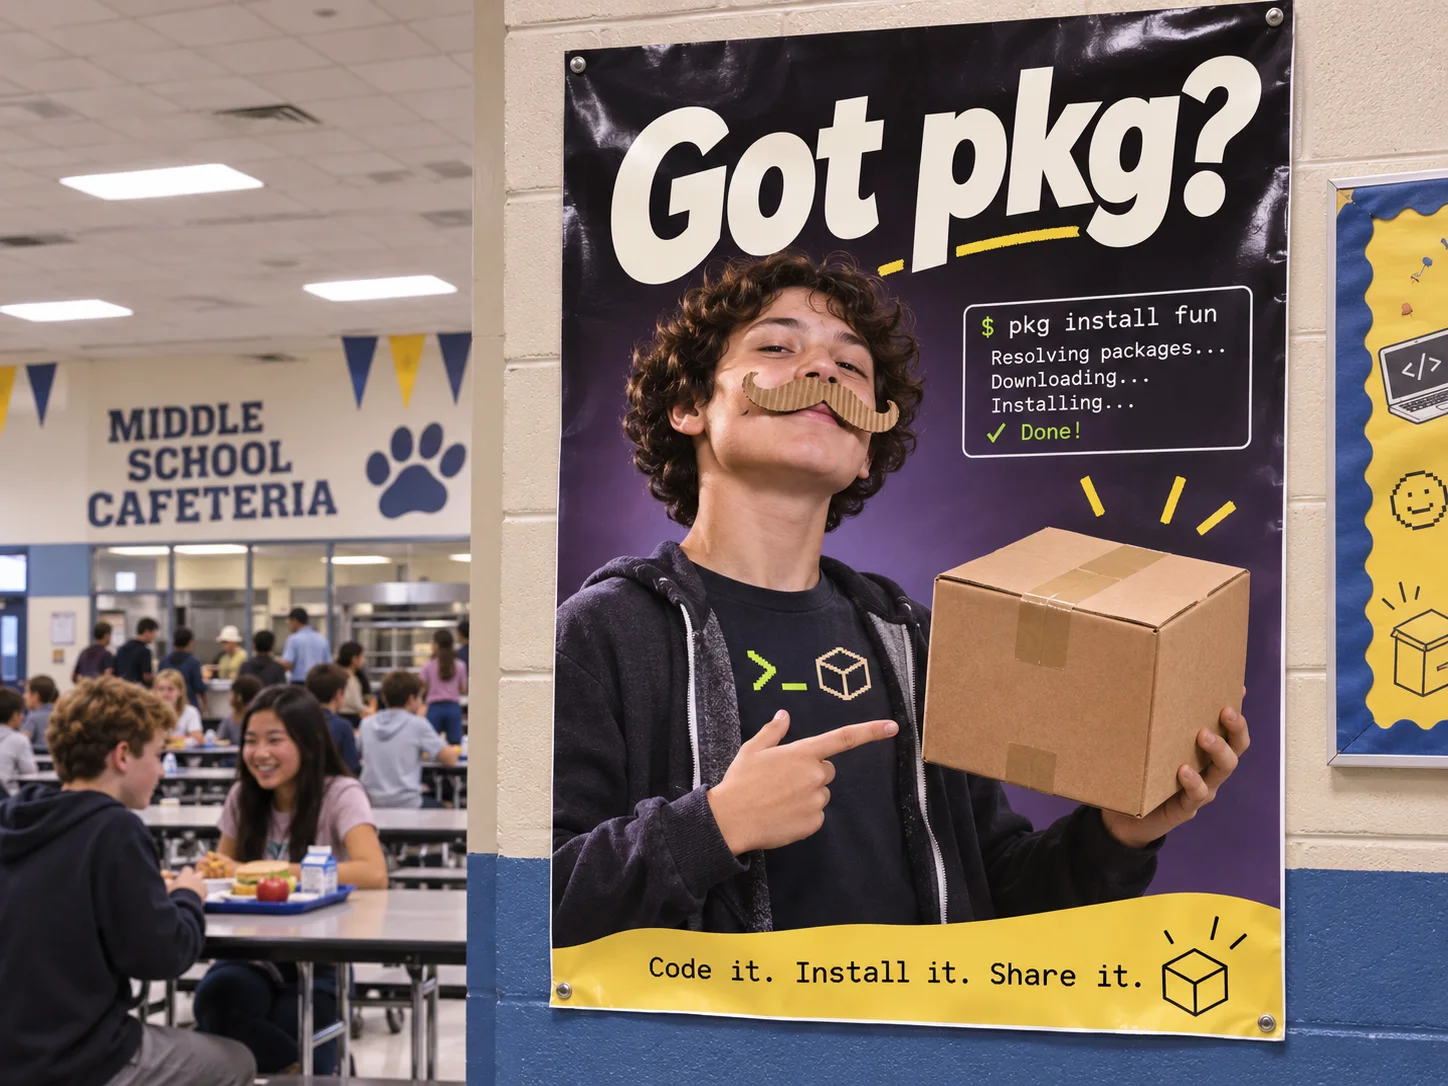
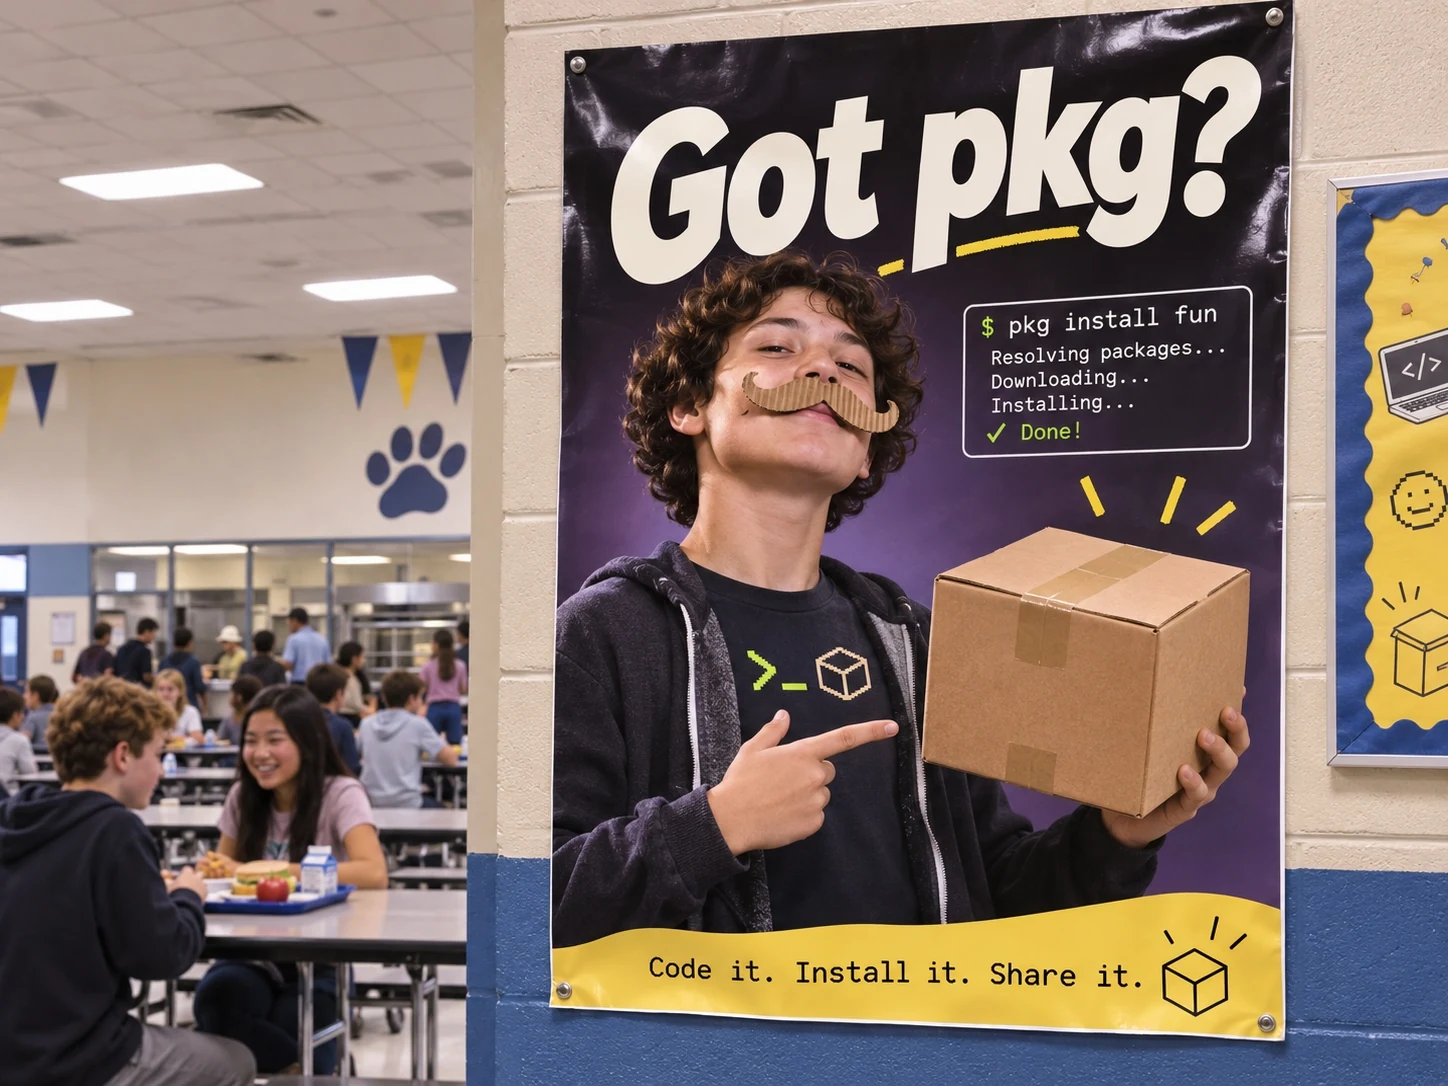
site: resolve polish notes and refresh the campaign image
- Center link arrows across both lines and apply label capitalization in CSS.
- Preserve manual package and theme changes in the browser tests.

Changed region(s): [[0.0622, 0.3646, 0.2486, 0.4862]]

diff --git a/site/e2e/theme.spec.ts b/site/e2e/theme.spec.ts
@@ -1,39 +1,33 @@
 import { expect, test } from "@playwright/test";
 
-test("the landing theme follows the system until overridden and stays in sync with docs", async ({
+test("the landing follows the system independently of the saved documentation theme", async ({
     page,
 }) => {
+    const background = () =>
+        page.locator("html").evaluate(element => getComputedStyle(element).backgroundColor);
     await page.emulateMedia({ colorScheme: "dark" });
     await page.goto("/");
-    const picker = page.getByRole("combobox", { name: "Select theme" });
-    await expect(picker).toHaveValue("auto");
-    await expect(page.locator("html")).toHaveCSS("color-scheme", "dark");
+    const darkBackground = await background();
 
     await page.emulateMedia({ colorScheme: "light" });
-    await expect(page.locator("html")).toHaveCSS("color-scheme", "light");
-    await picker.selectOption("dark");
-    await page.reload();
-    await expect(picker).toHaveValue("dark");
-    await expect(page.locator("html")).toHaveCSS("color-scheme", "dark");
+    await expect.poll(background).not.toBe(darkBackground);
+    await page.emulateMedia({ colorScheme: "dark" });
+    await expect.poll(background).toBe(darkBackground);
 
     await page
         .getByRole("navigation", { name: "Main navigation" })
         .getByRole("link", { name: "Docs", exact: true })
         .click();
-    await expect(picker).toHaveValue("dark");
+    const picker = page.getByRole("combobox", { name: "Select theme" });
     await picker.selectOption("light");
-    await page.getByRole("link", { name: "pkg", exact: true }).click();
+    await page.reload();
     await expect(picker).toHaveValue("light");
     await expect(page.locator("html")).toHaveCSS("color-scheme", "light");
-    await page.emulateMedia({ colorScheme: "dark" });
-    await expect(page.locator("html")).toHaveCSS("color-scheme", "light");
-    await picker.selectOption("auto");
-    await expect(page.locator("html")).toHaveCSS("color-scheme", "dark");
-    await page.reload();
-    await expect(picker).toHaveValue("auto");
+    await page.getByRole("link", { name: "pkg", exact: true }).click();
+    await expect.poll(background).toBe(darkBackground);
 });
 
-test("theme switching works for the current page when storage is blocked", async ({ page }) => {
+test("the landing follows system changes when storage is blocked", async ({ page }) => {
     await page.addInitScript(() => {
         Object.defineProperty(window, "localStorage", {
             get() {
@@ -43,8 +37,11 @@ test("theme switching works for the current page when storage is blocked", async
     });
     await page.emulateMedia({ colorScheme: "light" });
     await page.goto("/");
-    await page.getByRole("combobox", { name: "Select theme" }).selectOption("dark");
-    await expect(page.locator("html")).toHaveCSS("color-scheme", "dark");
+    const background = () =>
+        page.locator("html").evaluate(element => getComputedStyle(element).backgroundColor);
+    const lightBackground = await background();
+    await page.emulateMedia({ colorScheme: "dark" });
+    await expect.poll(background).not.toBe(lightBackground);
     await page.getByRole("link", { name: "Get pkg", exact: false }).click();
     await expect(page).toHaveURL(/\/docs\/install\/?$/);
 });

diff --git a/site/e2e/site.spec.ts b/site/e2e/site.spec.ts
@@ -13,21 +13,20 @@ const docsRoutes = [
 test("a package selection copies the corresponding command", async ({ page, context }) => {
     await context.grantPermissions(["clipboard-read", "clipboard-write"]);
     await page.goto("/");
-    await page.getByRole("button", { name: "Prettier npm package" }).click();
-    await expect(page.locator(".command-line code")).toHaveText("pkg install npm:prettier");
+    await page.getByRole("button", { name: /npm package$/ }).click();
+    const command = page.locator(".command-line code");
+    await expect(command).toHaveText(/^pkg install npm:\S+$/);
+    const npmCommand = await command.textContent();
     await page.getByRole("button", { name: "Copy command" }).click();
     await expect(page.getByRole("status")).toHaveText("Command copied to clipboard.");
     await expect(page.getByText("Copied!", { exact: true })).toBeVisible();
-    expect(await page.evaluate(() => navigator.clipboard.readText())).toBe(
-        "pkg install npm:prettier",
-    );
-    await page.getByRole("button", { name: "IINA Mac app" }).click();
+    expect(await page.evaluate(() => navigator.clipboard.readText())).toBe(npmCommand);
+    await page.getByRole("button", { name: /Mac app$/ }).click();
     await expect(page.getByRole("status")).toBeEmpty();
-    await expect(page.locator(".command-line code")).toHaveText("pkg install brew-cask:iina");
+    await expect(command).toHaveText(/^pkg install brew-cask:\S+$/);
+    const appCommand = await command.textContent();
     await page.getByRole("button", { name: "Copy command" }).click();
-    expect(await page.evaluate(() => navigator.clipboard.readText())).toBe(
-        "pkg install brew-cask:iina",
-    );
+    expect(await page.evaluate(() => navigator.clipboard.readText())).toBe(appCommand);
 });
 
 test("clipboard denial leaves the command available and explains recovery", async ({ page }) => {
@@ -45,11 +44,17 @@ test("clipboard denial leaves the command available and explains recovery", asyn
 });
 
 test("installation remains reachable without JavaScript", async ({ browser, baseURL }) => {
-    const context = await browser.newContext({ javaScriptEnabled: false, baseURL });
+    const context = await browser.newContext({
+        javaScriptEnabled: false,
+        colorScheme: "dark",
+        baseURL,
+    });
     const page = await context.newPage();
     await page.goto("/");
     await expect(page.getByRole("button", { name: "Copy command" })).toBeDisabled();
-    await expect(page.getByRole("button", { name: "Prettier npm package" })).toBeDisabled();
+    await expect(page.getByRole("button", { name: /npm package$/ })).toBeDisabled();
+    await expect(page.locator(".brand .logo-dark")).toBeVisible();
+    await expect(page.locator(".brand .logo-light")).toBeHidden();
     await page.getByRole("link", { name: "Get pkg", exact: false }).click();
     await expect(page).toHaveURL(/\/docs\/install\/?$/);
     await expect(page.getByRole("main")).toContainText("curl -fsSL https://gotpkg.dev | sh");

diff --git a/site/app/styles/sections.css b/site/app/styles/sections.css
@@ -40,9 +40,9 @@
     border-top: 1px solid var(--border);
 }
 .command-directory > a {
-    display: flex;
-    flex-direction: column;
-    gap: 9px;
+    display: grid;
+    grid-template-columns: minmax(0, 1fr) auto;
+    gap: 9px 16px;
     border-bottom: 1px solid var(--border);
     padding: 19px 0;
 }
@@ -57,11 +57,11 @@
 .command-directory > a > span {
     font-size: 15px;
     color: var(--secondary);
-    display: flex;
-    justify-content: space-between;
-    gap: 16px;
 }
-.command-directory > a > span > .icon {
+.command-directory > a > .icon {
+    grid-column: 2;
+    grid-row: 1 / span 2;
+    align-self: center;
     color: var(--page-foreground);
     font-size: 22px;
 }

diff --git a/site/app/styles/hero.css b/site/app/styles/hero.css
@@ -6,15 +6,16 @@
     align-items: center;
 }
 .intro {
+    display: flex;
+    align-items: center;
+    gap: 8px;
     font-size: 11px;
     font-weight: 600;
     letter-spacing: 0.055em;
     margin-bottom: 26px;
 }
 .intro .icon {
-    margin-right: 8px;
     font-size: 18px;
-    vertical-align: middle;
 }
 h1 {
     font-size: clamp(64px, 6.1vw, 86px);

diff --git a/DESIGN.md b/DESIGN.md
@@ -35,7 +35,7 @@ spacing:
 
 ## Overview
 
-The supplied identity becomes a software packing list: oversized, tightly set lettering; a yellow parcel label; selectable package names; and dark command strips. The landing page follows the visitor's system color preference, with a light or dark override. The supplied school poster adds campaign humor without becoming product evidence.
+The supplied identity becomes a software packing list: oversized, tightly set lettering; a yellow parcel label; selectable package names; and dark command strips. The landing page follows the visitor's system color preference. The supplied school poster adds campaign humor without becoming product evidence.
 
 ## Colors
 
@@ -44,6 +44,8 @@ Yellow owns the package demonstration and the closing installation section in bo
 ## Typography
 
 Barlow's heavy italic display echoes the supplied forward-leaning logo. Upright Barlow supports prose and navigation. JetBrains Mono is reserved for executable commands, package identifiers, and configuration.
+
+Short labels use title case in source and the `uppercase` CSS class for their all-caps presentation.
 
 ## Layout
 
@@ -59,13 +61,13 @@ Rounded rectangles belong to actions and the package label. Broad rectangular co
 
 ## Iconography
 
-Interface icons come from the Primaries set: filled shapes on a 64-unit grid, drawn in the current text color so they follow both themes. Arrows mark links. In the package index each example has its own mark, and the theme picker shows a computer, sun, or moon for Auto, Light, and Dark. The docs repaint Starlight's search, menu, theme, page navigation, heading link, and code copy icons with the same set; the GitHub mark in the docs header stays because it is a brand logo. The pkg logo and the supplied photographs are artwork, not icons. To add an icon, copy its Primaries file unchanged into `site/app/assets/icons/`; never redraw one or use a text character in its place.
+Interface icons come from the Primaries set: filled shapes on a 64-unit grid, drawn in the current text color so they follow both themes. Arrows mark links. In the package index each example has its own mark. The docs repaint Starlight's search, menu, theme, page navigation, heading link, and code copy icons with the same set; the GitHub mark in the docs header stays because it is a brand logo. The pkg logo and the supplied photographs are artwork, not icons. To add an icon, copy its Primaries file unchanged into `site/app/assets/icons/`; never redraw one or use a text character in its place.
 
 ## Components
 
 Package choices are real buttons with an announced selected state. Choosing one changes an illustrative command without installing anything. Copy buttons announce success or actionable failure. Navigation is visible at mobile sizes. Starlight supplies search, theme selection, table of contents, and mobile navigation.
 
-The header's native theme picker offers Auto, Light, and Dark. It shares Starlight's saved preference so the landing page and docs agree. Auto follows changes to the system setting; without JavaScript the page follows the system theme and the picker is disabled. An explicit choice is applied before first paint, and blocked browser storage does not prevent changing the theme for the current page.
+The landing page follows system theme changes through CSS, including without JavaScript or browser storage. Starlight's theme picker controls the documentation separately.
 
 Code blocks use the `pkg-dark` and `pkg-light` Expressive Code themes in `site/code-themes.ts`. Charcoal and paper replace the default editor surfaces. Yellow commands, wheat strings, amber constants, and warm gray comments keep syntax within the brand; the light theme uses darker mustard and olive equivalents for readable contrast. Theme selection follows Starlight's light/dark control.
 

diff --git a/.changeset/meet_pkg_on_the_web.md b/.changeset/meet_pkg_on_the_web.md
@@ -6,6 +6,6 @@ default: patch
 
 Explore pkg through a new marketing site and searchable Starlight documentation covering installation, packages, configuration, and automation.
 
-The landing page has light and dark themes, follows your system setting, and remembers your choice across the site and documentation.
+The landing page has light and dark themes that follow your system setting. The documentation has its own theme picker.
 
 Primaries icons give the landing page and documentation controls a consistent style.
